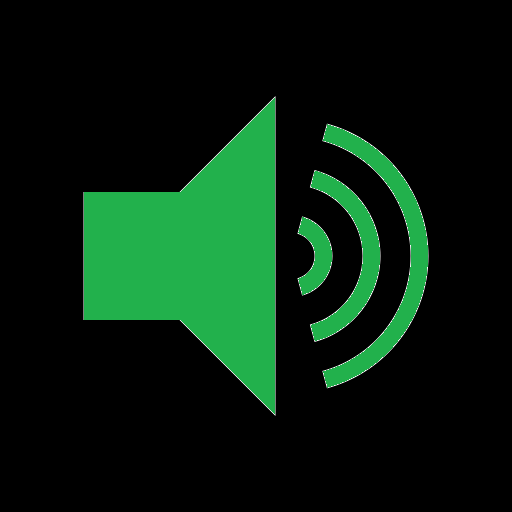
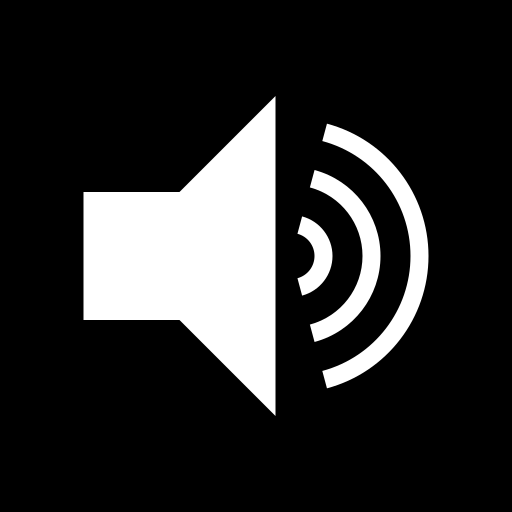
Fixed config screen

Changed region(s): [[0.1562, 0.1875, 0.6562, 0.8125], [0.625, 0.25, 0.8438, 0.75], [0.5938, 0.3125, 0.75, 0.6875]]

diff --git a/Engine/game.cpp b/Engine/game.cpp
@@ -710,30 +710,31 @@ void game::start()
     newMapButton.setButton(gScreenSurface->w -128, gScreenSurface->h /2, 128, 128, "New map");
     newMapButton.setColor(200, 200, 200);
     
-    musicButton.setButton(gScreenSurface->w / 2-100, gScreenSurface->h / 2 + 100, 200, 50, "Cambia canción");
+    musicButton.setButton(gScreenSurface->w / 2-100, gScreenSurface->h / 3 + 100, 200, 50, "Cambia canción");
     musicButton.setColor(100, 100, 100);
-    muteButton.setButton(gScreenSurface->w / 2 -100, gScreenSurface->h / 2 + 150, 200, 50, "MUSIC ON");
+    muteButton.setButton(gScreenSurface->w / 2 -100, gScreenSurface->h / 3 + 150, 200, 50, "MUSIC ON");
     muteButton.setColor(100, 100, 100);
-    volumeSoundDownButton.setButton(gScreenSurface->w / 2 -100, gScreenSurface->h / 2 + 200, 50, 50, "+");
+    volumeSoundDownButton.setButton(gScreenSurface->w / 2 -100, gScreenSurface->h / 3 + 200, 50, 50, "+");
     volumeSoundDownButton.setColor(100, 100, 100);
-    volumeSoundButton.setButton(gScreenSurface->w / 2 + 50 - 100, gScreenSurface->h / 2 + 200, 100, 50, "SOUND 100%");
+    volumeSoundButton.setButton(gScreenSurface->w / 2 + 50 - 100, gScreenSurface->h / 3 + 200, 100, 50, "SOUND 100%");
     volumeSoundButton.setColor(200, 200, 200);
-    volumeSoundUpButton.setButton(gScreenSurface->w / 2 + 150 - 100, gScreenSurface->h / 2 + 200, 50, 50, "-");
+    volumeSoundUpButton.setButton(gScreenSurface->w / 2 + 150 - 100, gScreenSurface->h / 3 + 200, 50, 50, "-");
     volumeSoundUpButton.setColor(100, 100, 100);
-    volumeMusicDownButton.setButton(gScreenSurface->w / 2 - 100, gScreenSurface->h / 2 + 250, 50, 50, "+");
+    volumeMusicDownButton.setButton(gScreenSurface->w / 2 - 100, gScreenSurface->h / 3 + 250, 50, 50, "+");
     volumeMusicDownButton.setColor(100, 100, 100);
-    volumeMusicButton.setButton(gScreenSurface->w / 2 + 50 - 100, gScreenSurface->h / 2 + 250, 100, 50, "MUSIC 100%");
+    volumeMusicButton.setButton(gScreenSurface->w / 2 + 50 - 100, gScreenSurface->h / 3 + 250, 100, 50, "MUSIC 100%");
     volumeMusicButton.setColor(200, 200, 200);
-    volumeMusicUpButton.setButton(gScreenSurface->w / 2 + 150 - 100, gScreenSurface->h / 2 + 250, 50, 50, "-");
+    volumeMusicUpButton.setButton(gScreenSurface->w / 2 + 150 - 100, gScreenSurface->h / 3 + 250, 50, 50, "-");
     volumeMusicUpButton.setColor(100, 100, 100);
-    
+    blurButton.setButton(gScreenSurface->w / 2 - 100, gScreenSurface->h / 3 + 300, 200, 50, "BLUR ON");
+    blurButton.setColor(100, 100, 100);
+
     playerUpButton.setButton(gScreenSurface->w / 2 - 100, gScreenSurface->h / 2 + 250, 50, 50, "+");
     playerUpButton.setColor(100, 100, 100);
     playerDownButton.setButton(gScreenSurface->w / 2 + 150 - 100, gScreenSurface->h / 2 + 250, 50, 50, "-");
     playerDownButton.setColor(100, 100, 100);
 
-    blurButton.setButton(gScreenSurface->w / 2 - 100, gScreenSurface->h / 2 + 300, 200, 50, "BLUR ON");
-    blurButton.setColor(100, 100, 100);
+  
 
     mouseButton.setButton(gScreenSurface->w / 2 - 100, 0, 200, 50, "X:" + std::to_string(mousex) + " Y:" + std::to_string(mousey));
     mouseButton.setColor(100, 100, 100);
@@ -760,9 +761,6 @@ void game::start()
 
     
     
-    blurButton.setButton(gScreenSurface->w / 2 - 100, gScreenSurface->h / 2 + 300, 200, 50, "BLUR ON");
-    blurButton.setColor(100, 100, 100);
-
 
     shop0.setButton(50, gScreenSurface->h / 2, gScreenSurface->w - 100, 50, "0");
     shop1.setButton(50, gScreenSurface->h / 2 + 50, gScreenSurface->w - 100, 50, "1");
@@ -1320,6 +1318,9 @@ buttonDrainTexture = loadTexture(images + "dead-head.png");
 buttonHideTexture = loadTexture(images + "invisible.png");
 buttonSummonTexture = loadTexture(images + "magic-hat.png");
 
+
+buttonSoundOnTexture  = loadTexture(images + "speaker.png");
+buttonSoundOffTexture = loadTexture(images + "speaker-off.png");
 
 //classButton bowButton;
 //classButton drainButton;
@@ -2478,7 +2479,7 @@ void game::eventsPlayerName()
 void game::screenConfigMenu()
 {
    // SDL_Rect dstrect;
-    tmpRect.x = gScreenSurface->w / 8 - 1;
+    /*tmpRect.x = gScreenSurface->w / 8 - 1;
     tmpRect.y = 299;
     tmpRect.w = 322;
     tmpRect.h = 482;
@@ -2493,46 +2494,53 @@ void game::screenConfigMenu()
     tmpRect.h = 50;
     tmpRect.x = gScreenSurface->w / 8;
     tmpRect.y = gScreenSurface->h / 8;
-    tmpRect.x = gScreenSurface->w / 2 - 350;
+    */
+    tmpRect.x = gScreenSurface->w / 2 - 250;
     tmpRect.y = gScreenSurface->h / 8 - 50;
     tmpRect.w = 500;
     tmpRect.h = 100;
     drawTextResize("Menu Configuración", tmpRect);
-
+    /*
     tmpRect.x = gScreenSurface->w - 500;
     tmpRect.y = gScreenSurface->h - 50;
     tmpRect.w = 500;
     tmpRect.h = 50;
-
+    */
     //drawText("Tiempo jugando: minutos:" + std::to_string(myTime / 60) + " segundos:" + std::to_string(myTime % 60), tmpRect);
 
 
     drawButtonSrc(exitButton, buttonCloseTexture);
-    drawButtonSrc(startButton, buttonAcceptTexture);
+    
 
     drawButtonSrc(volumeSoundUpButton, buttonNextTexture);
     drawButtonSrc(volumeSoundDownButton, buttonPrevTexture);
+    drawButton(volumeSoundButton);
 
     drawButtonSrc(volumeMusicUpButton, buttonNextTexture);
     drawButtonSrc(volumeMusicDownButton, buttonPrevTexture);
+    drawButton(volumeMusicButton);
+    
 
-
-
-//    drawButton(exitButton);
-//    drawButton(startButton);
     if (debugMode) {
         drawButton(musicButton);
     }
-    drawButton(muteButton);
-  //  drawButton(volumeSoundUpButton);
-    drawButton(volumeSoundButton);
-  //  drawButton(volumeSoundDownButton);
 
-    //drawButton(volumeMusicUpButton);
-    drawButton(volumeMusicButton);
-    //drawButton(volumeMusicDownButton);
+    if (musicON == false) {
+        drawButtonSrc(muteButton, buttonSoundOffTexture);
+    }
+    else {
+        drawButtonSrc(muteButton, buttonSoundOnTexture);
+    }
+    
+
+    
+  
+  
+   
 
     drawButton(blurButton);
+
+    drawButtonSrc(startButton, buttonAcceptTexture);
 }
 
 void game::screenHomeTown()

diff --git a/Engine/game.h b/Engine/game.h
@@ -426,6 +426,9 @@ protected:
     SDL_Texture* buttonPotionMagicTexture = NULL;
     SDL_Texture* buttonFoodTexture = NULL;
 
+    //SDL_Texture* buttonSoundOnTexture = NULL;
+   // SDL_Texture* buttonSoundOffTexture = NULL;
+
     SDL_Texture* buttonBackTexture = NULL;
 
     //Globally used font
